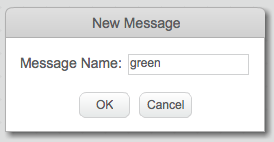
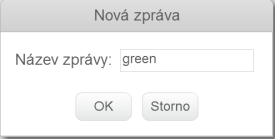
pb

diff --git a/cs-CZ/Term 1/Paint Box/Paint Box.md b/cs-CZ/Term 1/Paint Box/Paint Box.md
@@ -87,7 +87,7 @@ Udělej různé barevné tužky a umožni jejich používání a možnost si je 
 
 ## Seznam úkolů { .check }
 
-+ Klikni na sprajt tužky, klikny na 'Costumes' a zduplikuj kostým 'pencil-blue'.
++ Klikni na sprajt tužky, klikny na 'Kostýmy' a zkopíruj kostým 'pencil-blue'.
 
 	![screenshot](paint-blue-duplicate.png)
 
@@ -95,17 +95,17 @@ Udělej různé barevné tužky a umožni jejich používání a možnost si je 
 
 	![screenshot](paint-pencil-green.png)
 
-+ Vytvoř dva nové sprajty, které ti umožní vybrat si barvu tužky.
++ Vytvoř dva nové objekty (postavy), které ti umožní vybrat si barvu tužky.
 
 	![screenshot](paint-selectors.png)
 
-+ Když je stisknuto zelené tlačítko, musíš vyslat - `broadcast` {.blockevents} zrpávu pro sprajt tužky, která řekne aby změnila kostým a barvu tužky.
++ Když je stisknuto zelené tlačítko, musíš vyslat - `rozešli všem` {.blockevents} zprávu, na kterou zareaguje tužka, a změní kostým a barvu tuhy.
 
 	Abys toho dosáhl(a) přidej tento kód na zelená tlačítko:
 
 	```blocks
-		when this sprite clicked
-		broadcast [green v]
+		po kliknutí na mě
+		rozešli všem [green v]
 	```
 
 	Abys vytvořil(a) blok pro vyslání zprávy - `broadcast` {.blockevents}, klikni na tlačítko dolů a vyber 'new message...'.
@@ -119,34 +119,34 @@ Udělej různé barevné tužky a umožni jejich používání a možnost si je 
 + Nyní musíš říct tužce co má dělat, když dostane zprávu. Přidej tento kód do sprajtu tužky:
 
 	```blocks
-		when I receive [green v]
-		switch costume to [pencil-green v]
-		set pen color to [#00ff00]
+		po obdržení zprávy [green v]
+		změň kostým na [pencil-green v]
+		nastav barvu pera na [#00ff00]
 	```
 
-	Abys nastavil(a) barvu tuhy na zelenou klikni na barevný boxík `set color` {.blockpen}, a pak klikni na zelené tlačítko, aby se použila jeho barva.
+	Abys nastavil(a) barvu tuhy na zelenou klikni na barevný boxík `nastav barvu pera na` {.blockpen}, a pak klikni na zelené tlačítko, aby se použila jeho barva.
 
 + To samé udělej nyní pro modré tlačítko, prřidáním následujícího kódu:
 
 	```blocks
-		when this sprite clicked
-		broadcast [blue v]
+		po kliknutí na mě
+		rozešli všem [blue v]
 	```
 
 	...a přidáním tohoto kódu pro sprajt tužky:
 
 	```blocks
-		when I receive [blue v]
-		switch costume to [pencil-blue v]
-		set pen color to [#0000ff]
+		po obdržení zprávy [blue v]
+		změň kostým na [pencil-blue v]
+		nastav barvu pera na [#0000ff]
 	```
 
-+ Nakonec potřebuješ říct tužce, jaký si má vybrat kostým a barvu tuhy při startu projektu (a smazat scénu). Přidej tento kód na začátek kódu pro tužku za `po kliknutí na ⚑` {.blockevents} (před smyčku `forever` {.blockcontrol}):
++ Nakonec potřebuješ říct tužce, jaký si má vybrat kostým a barvu tuhy při startu projektu (a smazat scénu). Přidej tento kód na začátek kódu pro tužku za `po kliknutí na ⚑` {.blockevents} (před smyčku `opakuj dokola` {.blockcontrol}):
 
 	```blocks
-		clear
-		switch costume to [blue-pencil v]
-		set pen color to [#0000ff]
+		smaž
+		změň kostým na [blue-pencil v]
+		nastav barvu pera na [#0000ff]
 	```
 
 	Múžeš si vybrat jinou barvu pro začátek!
@@ -170,11 +170,11 @@ Občas se stane chyba a proto přidáme tlačítko 'smazat' a gumu do projektu.
 + Přidej tento kód k tlačítku:
 
 	```blocks
-		when this sprite clicked
-		clear
+		po kliknutí na mě
+		smaž
 	```
 
-	Všimni si, že tady neposíláme žádnou zprávu, protože na scéně není žádný sprajt, který by měl tuto činnost dělat.
+	Všimni si, že tady neposíláme žádnou zprávu, protože na scéně není žádný objekt, který by měl tuto činnost dělat.
 
 + Vytvoř gumu pro mazání. Pokud jsi od vedoucího dostal soubory se zdroji, klikni 'Upload costume from file' a přidej obrázek 'eraser.svg'.
 
@@ -189,17 +189,17 @@ Občas se stane chyba a proto přidáme tlačítko 'smazat' a gumu do projektu.
 + Nyní přidej kód k tlačitku gumy, abys řekl(a) tužce, že se má změnit na gumu.
 
 	```blocks
-		when this sprite clicked
-		broadcast [eraser v]
+		po kliknutí na mě
+		rozešli všem [eraser v]
 	```
 
 + Když tužka dostane zprávu, musí se změnit na gumu přepnutím kostýmu a nastavením barvy tuhy na stejnou, jakou barvu má scéna!
 
 	```blocks
-		when I receive [eraser v]
-		switch costume to [eraser v]
-		set pen color to [#FFFFFF]
-	```
+		po obdržení zprávy [eraser v]
+		změň kostým na [eraser v]
+		nastav barvu pera na [#FFFFFF]
+	```  
 
 + Vyzkoušej projekt abys viděl, jestli guma maže.
 
@@ -227,10 +227,10 @@ Dovol uživatelům kreslit různou velikostí tuhy.
 
 + Jako první přidej novou proměnnu nazvanou 'width'. pokud nevíš jak, podívej se do projektu 'Lovci duchů'.
 
-+ Přidej tento řádek _dovnitř_ cyklu `forever` {.blockcontrol} v kódu tužky:
++ Přidej tento řádek _dovnitř_ cyklu `opakuj dokola` {.blockcontrol} v kódu tužky:
 
 	```blocks
-		set pen size to (width)
+		nastav tloušťku pera na (width)
 	```
 
 	Šířka tuhy bude nyní opakovaně nastavována podle proměnné 'width'.
